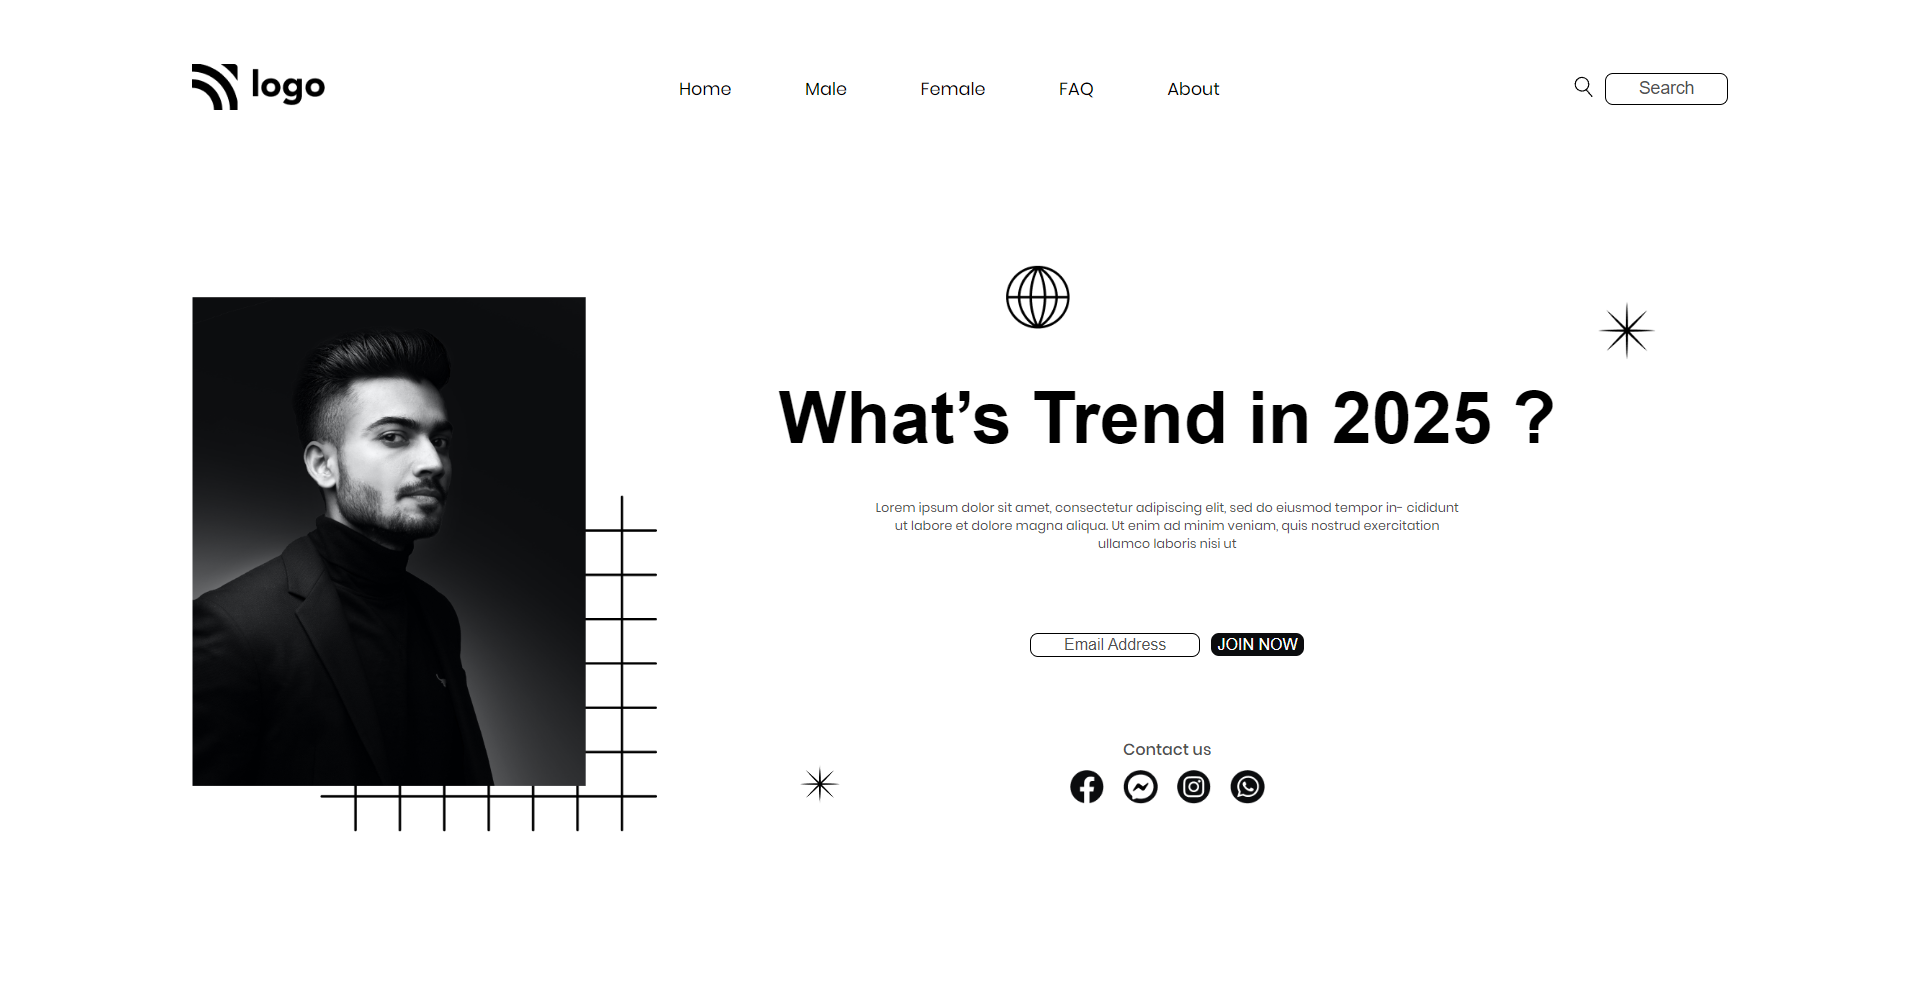
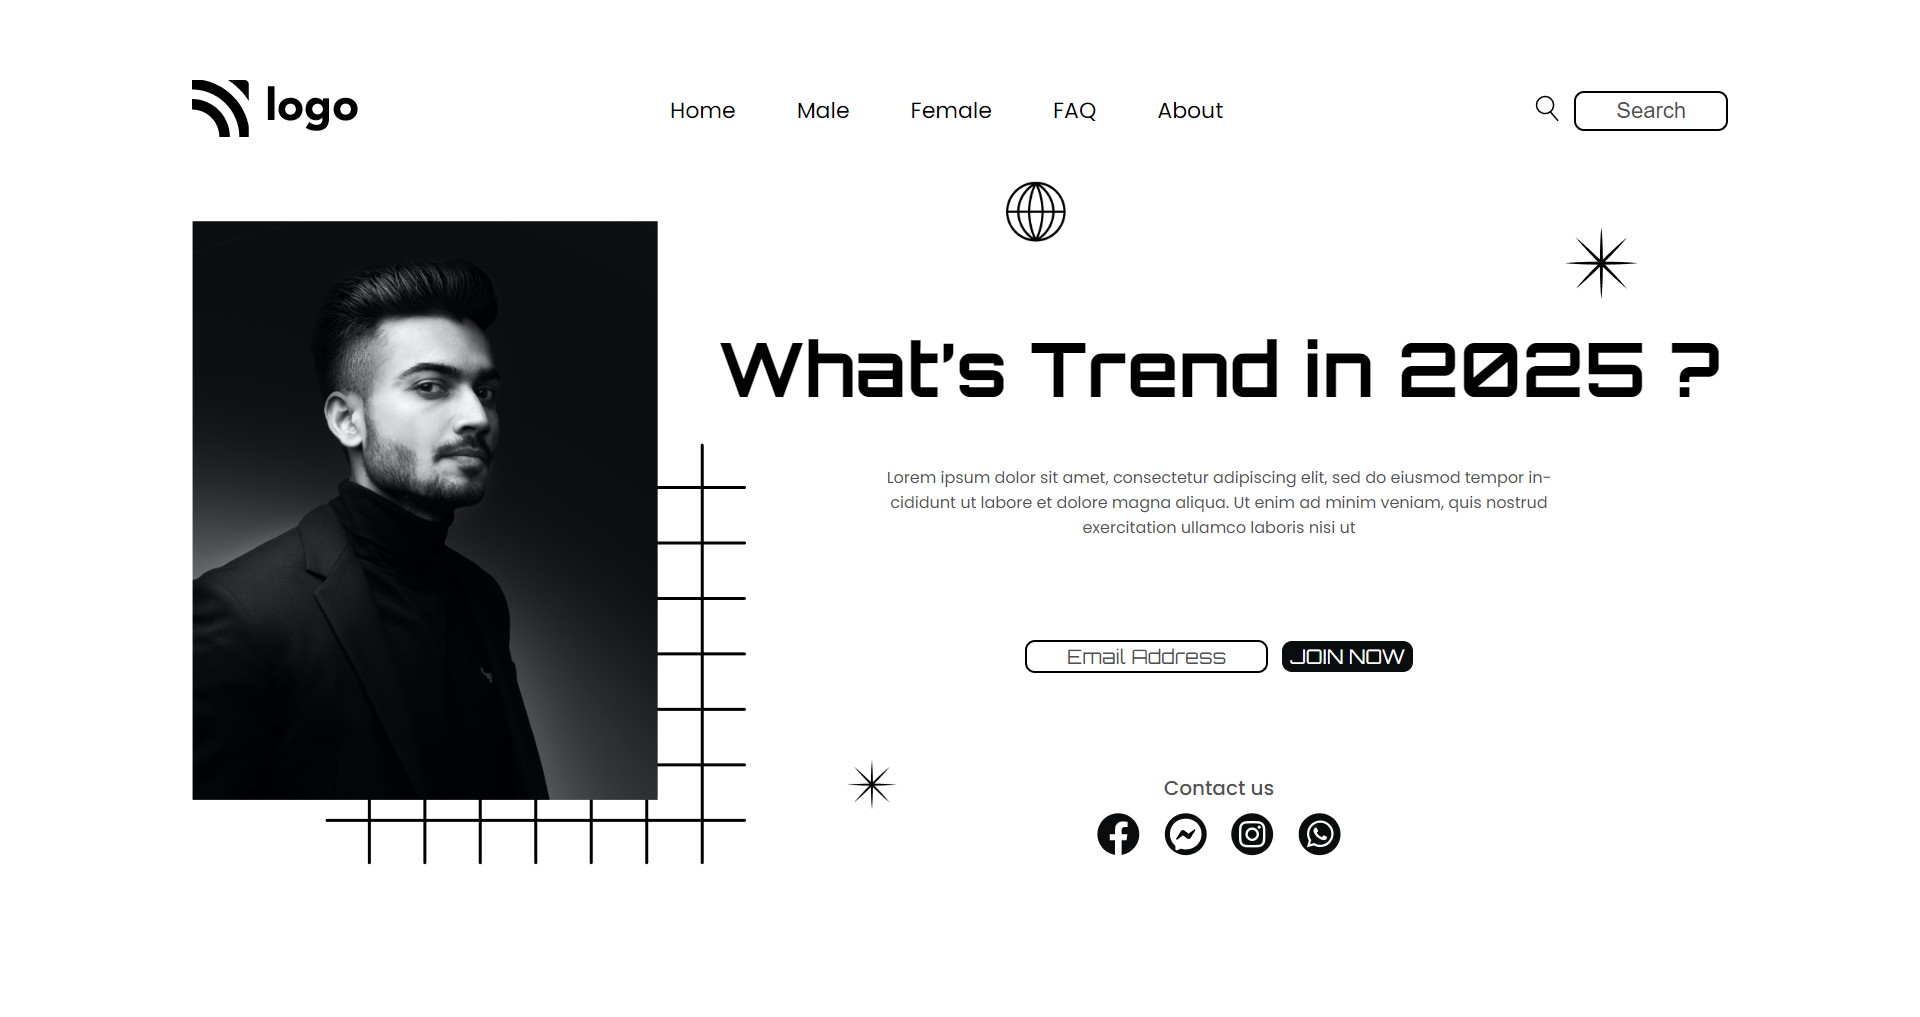
Upload latest live preview image and fix css styling according to the live preview

diff --git a/style.css b/style.css
@@ -102,7 +102,7 @@ section[aria-label="navbar"] {
 /* Hero Banner Section */
 
 section[aria-label="banner"] {
-    height: 80vh;
+    height: 75vh;
     display: flex;
 }
 
@@ -120,8 +120,8 @@ section[aria-label="banner"] {
 }
 
 .hero-container .square {
-    bottom: -90px;
-    left: 135px;
+    bottom: 55px;
+    left: 133px;
     z-index: -1;
 }
 
@@ -132,8 +132,8 @@ section[aria-label="banner"] {
 
 .hero-container .star2 {
     width: 50px;
-    bottom: 0;
-    left: 760px;
+    bottom: 110px;
+    left: 655px;
 }
 
 .hero-container .star2 img {
@@ -141,7 +141,7 @@ section[aria-label="banner"] {
 }
 
 .hero-container .globe {
-    width: 80px;
+    width: 60px;
     top: -40px;
     left: 53%;
 }
@@ -168,7 +168,7 @@ section[aria-label="banner"] {
 .hero-container-right p {
     font-family: "Poppins", sans-serif;
     color: var(--grey);
-    width: 55%;
+    width: 70%;
     margin: 0 auto;
     margin-bottom: 100px;
 }
